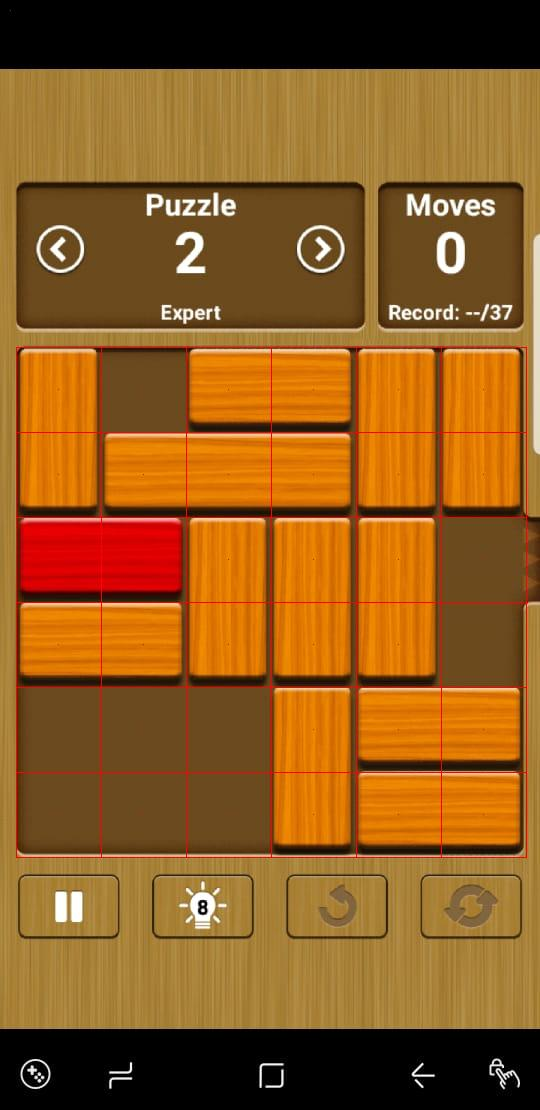
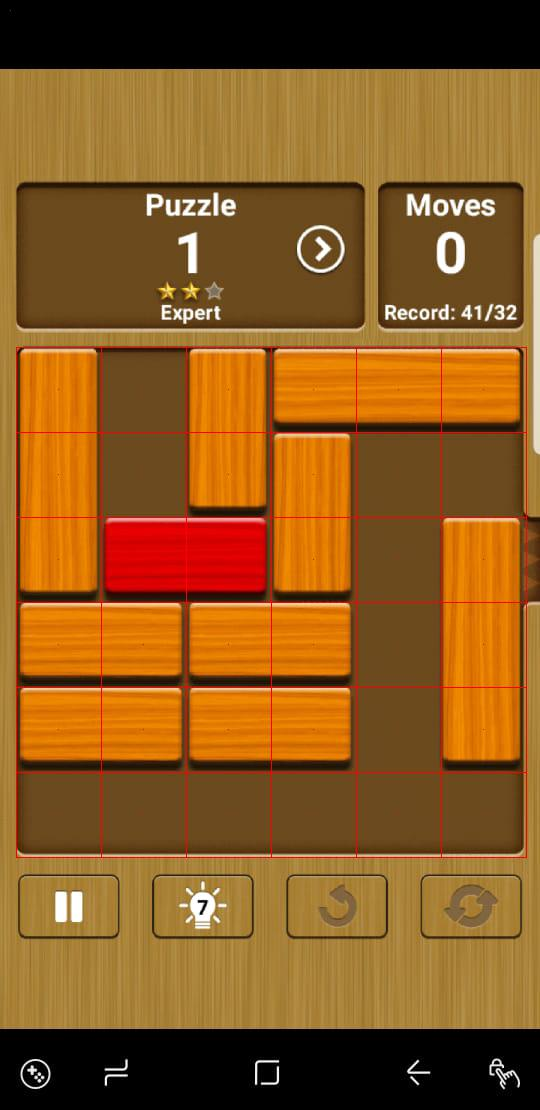
Image recognition was integrated with UI

diff --git a/uiTable.py b/uiTable.py
@@ -1,8 +1,11 @@
 from tkinter import *
-from solver import *
+from solver import * 
+from PIL import ImageTk
+from table_builder import *
 import time
 import sys
-
+import os
+elementsBlocks = []
 root = Tk()
 leftFrame = Frame(root, bg="green")
 leftFrame.pack(side=LEFT, fill=BOTH, expand=True)
@@ -66,6 +69,12 @@ button_solve.pack(fill=X)
 
 tableSolverFrame.pack(expand=True, fill=X)
 
+imagesFrame = Frame(rightFrame)   
+
+images_label = Label(imagesFrame, text="List of table images: ")
+images_label.pack()
+
+imagesFrame.pack()
 
 blocksControllerFrame = Frame(rightFrame)
 
@@ -99,12 +108,12 @@ Radiobutton(blocksControllerFrame, text="yes", variable=h, value=1).grid(row = 2
 Radiobutton(blocksControllerFrame, text="no", variable=h, value=0).grid(row = 2, column=4)
 
 #radio buttons
-kindes = [("Block", 1),("Prisioner", 2)]
+kinds = [("Block", 1),("Prisioner", 2)]
 
 v = IntVar()
 v.set(0) # initialize
 cont = 0
-for text, mode in kindes:
+for text, mode in kinds:
     b = Radiobutton(blocksControllerFrame, text=text,
                     variable=v, value=mode)
     b.grid(row = cont+3)
@@ -137,8 +146,6 @@ block_kind.grid(row=0, column = 4,sticky=(N, S, E, W))
 
 #button_remove = Button(blockListFrame, text="del", bg="red")
 #button_remove.grid(row=0, column = 5, sticky=(N, S, E, W))
-scrollbar = Scrollbar(blockListFrame)
-scrollbar.grid(row=0, column=6)
 
 
 blockListFrame.columnconfigure(0, weight=1)
@@ -221,6 +228,12 @@ def removeBlock(params):
             table_positions[x].configure(text='('+str(x-int(x/6)*6)+', '+str(int(x/6))+')', bg="gray", borderwidth=1, relief="solid")
     for element in elements:
         element.destroy()
+def removeAllBlocks():
+    for block in blocks:
+        current_block = block
+        blocks.remove(block)
+    #for element in elements:
+        #element.destroy()
 def updateTable():
     last_block = blocks[-1]
     block_index = (6*last_block.y)+last_block.x
@@ -248,11 +261,11 @@ def updateBlockList():
     new_block_kind = Label(blockListFrame, text=str(blocks[-1].kind))
     new_block_kind.grid(row=len(blocks), column = 4,sticky=(N, S, E, W))
     elements = [new_blockName, new_block_x, new_block_y, new_block_size, new_block_kind]
-
     button_remove = Button(blockListFrame, text="del", bg="red")
     elements = [new_blockName, new_block_x, new_block_y, new_block_size, new_block_kind, button_remove]
     button_remove.configure(command=lambda params = [blocks[-1].x, blocks[-1].y, elements]: removeBlock(params))
     button_remove.grid(row=len(blocks), column = 5, sticky=(N, S, E, W))
+    elementsBlocks.append(elements) 
     updateTable()
 
 def addBlock():
@@ -262,6 +275,11 @@ def addBlock():
     block_isHorizontal_value = h.get()
     block_kind_value = v.get()
     blocks.append(Peca(len(blocks), block_x_value, block_y_value, block_isHorizontal_value, block_kind_value, block_size_value))
+    print(len(blocks))
+    updateBlockList()
+
+def addBlockFromImage(block):
+    blocks.append(block)
     print(len(blocks))
     updateBlockList()
 
@@ -278,11 +296,38 @@ def solve():
     displayNextTableDelay()
     #displayTableFromIndex()
 
+def showTable(image):
+    resetTable()
+    blocks.clear()
+    actual_table_index.set(0)
+    solution_tree.clear()
+    for line in elementsBlocks:
+        for element in line:
+            element.destroy()
+    removeAllBlocks()
+    pre_table = openImage(image)
+    table = blocksInfoToTable(pre_table)
+    for block in table.pieces:
+        if(block.kind==0):
+            continue
+        addBlockFromImage(block)
+    table.printTabHuman()
+
+source = "tables/"
+images = os.listdir(source)
+imagesButton = []
+
+for image in images:
+    listTabButton = Button(imagesFrame, text=image)
+    listTabButton.configure(command=lambda params = source+image: showTable(params))
+    listTabButton.pack()
+    imagesButton.append(listTabButton) 
 
 button_addBlock.configure(command=addBlock)
 button_solve.configure(command=solve)
 button_next.configure(command=displayNextTable)
 button_previous.configure(command=displayPreviousTable)
+
 
 root.geometry("1440x810")
 root.mainloop()

diff --git a/utils.py b/utils.py
@@ -1,8 +1,8 @@
 from PIL import Image
-def openImage():
-	im = Image.open('tables/tab3.jpeg')
+def openImage(path):
+	im = Image.open(path)
 	pix_val = list(im.getdata())
-	print(im.size)
+	#print(im.size)
 	width, height = im.size
 	pre_table = []
 	for y in range(347, 857+1):
@@ -37,23 +37,21 @@ def openImage():
 								break
 						if(has_bottom and has_top):
 							pre_table.append({'kind':1, 'has_top':True, 'has_bottom':True, 'isHorizontal': True, 'x': int(t_x/85)-1, 'y': int(t_y/85)-1, 'visited': False, 'isFinal':is_final})
-							print("horizontal block")
+							#print("horizontal block")
 						elif((has_top and not has_bottom) or (has_bottom and not has_top) or (not has_top and not has_bottom)):
 							#print(has_top, " ",has_bottom)
 							pre_table.append({'kind':1, 'has_top':has_top, 'has_bottom':has_bottom, 'isHorizontal': False, 'x': int(t_x/85)-1, 'y': int(t_y/85)-1, 'visited': False, 'isFinal':is_final})
-							print("vertical block")
-						else:
-							print("deu merda")
+							#print("vertical block")
 					else:
 						pre_table.append({'kind':2, 'has_top':True, 'has_bottom':True, 'isHorizontal': True, 'x': int(t_x/85)-1, 'y': int(t_y/85)-1, 'visited': False, 'isFinal':is_final})
-						print("prisioner")
+						#print("prisioner")
 				else:
 					pre_table.append({'kind':0, 'has_top':False, 'has_bottom':False, 'isHorizontal': True, 'x': int(t_x/85)-1, 'y': int(t_y/85)-1, 'visited': False, 'isFinal':is_final})
-					print("empty")
+					#print("empty")
 				im.putpixel((int(x-(85/2)), int(y-(85/2))), (255,0,0))
 	im.putpixel((10, 10), (255,0,0))
 	im.save('tables/modified.jpeg')
-	im.show()
+	#im.show()
 	return pre_table
 def tabs_are_equal(tab1, tab2):
 	for x in range(0, len(tab1.pieces)):
@@ -74,7 +72,6 @@ def removeEqualTabs(tab, tabs, count):
 		if(tabs_are_equal(current_tab, tab)):
 			tabs.pop(index)
 	return tabs
-		
 def removeRepeatedTabs(tabs):
 	print("n_tabs: "+str(len(tabs)))
 	for count, tab in enumerate(tabs, start=0):

diff --git a/table_builder.py b/table_builder.py
@@ -1,5 +1,5 @@
 from classes import *
-from utils import *
+#from utils import *
 def findBlock(pre_table, x , y):
     for index, block in enumerate(pre_table, start=0):
         if(block['x']==x and block['y']==y):
@@ -23,7 +23,7 @@ def blocksInfoToTable(pre_table):
                 c_x = x
                 while(True):
                     c_x+=1
-                    print(c_x, y)
+                    #print(c_x, y)
                     index = findBlock(pre_table, c_x, y)
                     next_block = pre_table[index]
                     pre_table[index]['visited'] = True
@@ -34,7 +34,7 @@ def blocksInfoToTable(pre_table):
                 c_y = y
                 while(True):
                     c_y+=1
-                    print(x, c_y)
+                    #print(x, c_y)
                     index = findBlock(pre_table, x, c_y)
                     next_block = pre_table[index]
                     pre_table[index]['visited'] = True
@@ -44,8 +44,10 @@ def blocksInfoToTable(pre_table):
             block['visited'] = True
             cont+=1
     return Table(blocks)
-pre_table = openImage()
+'''
+pre_table = openImage("tables/tab1.jpeg")
 tab = blocksInfoToTable(pre_table)
 tab.printTabHuman()
 for tab in pre_table:
 	print(tab)
+'''
